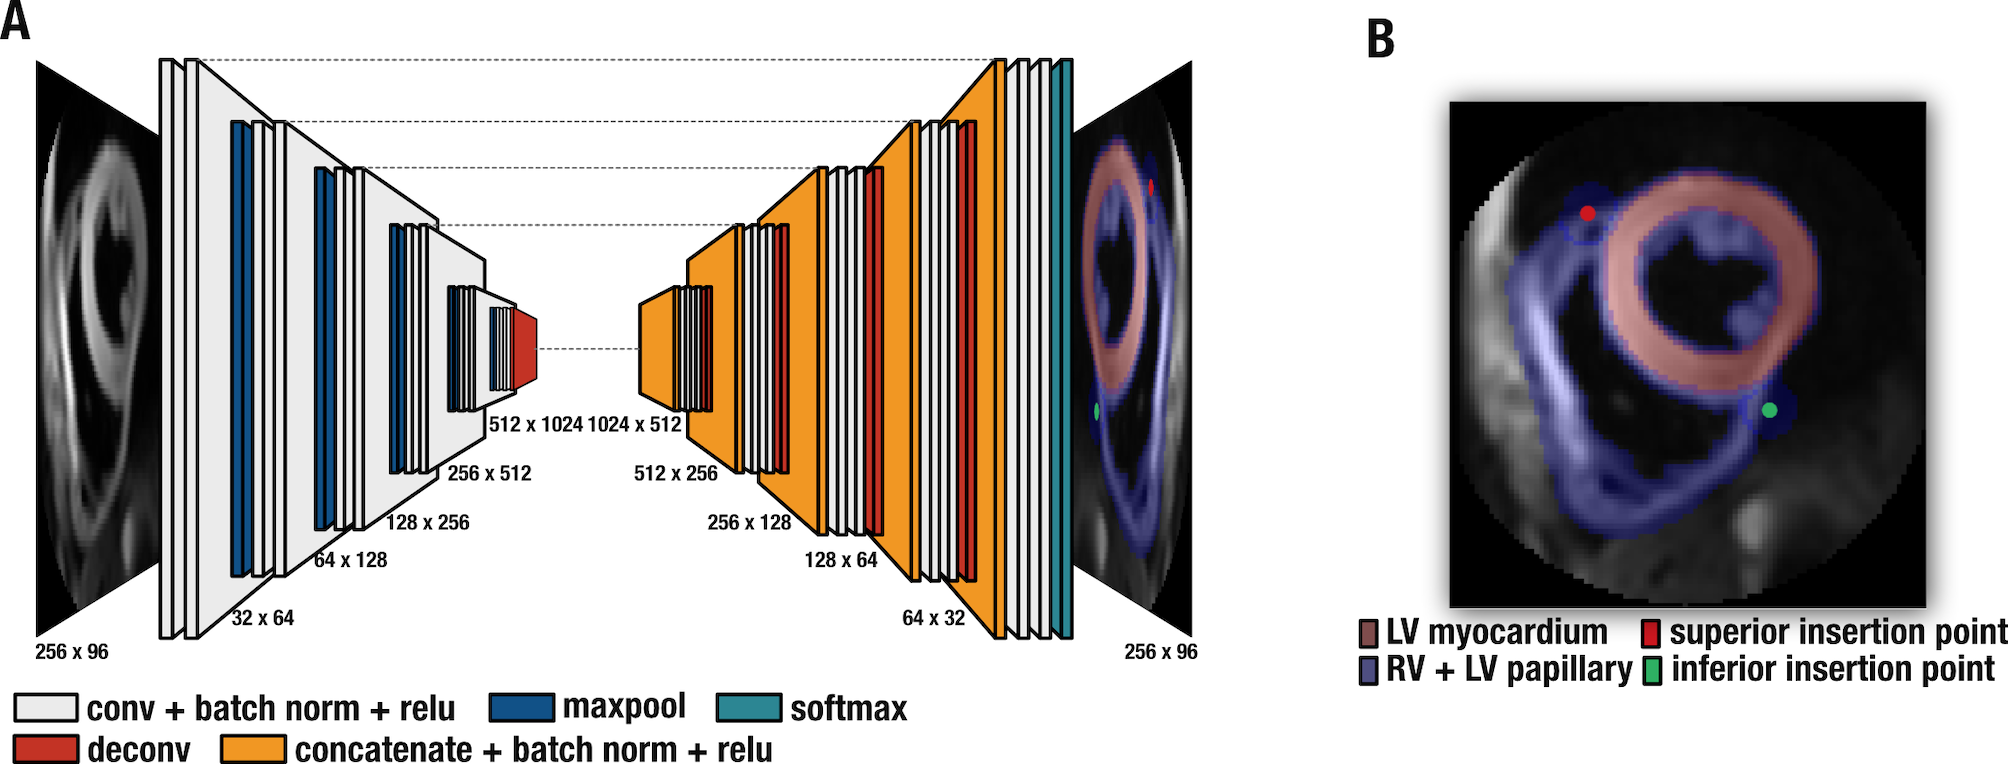
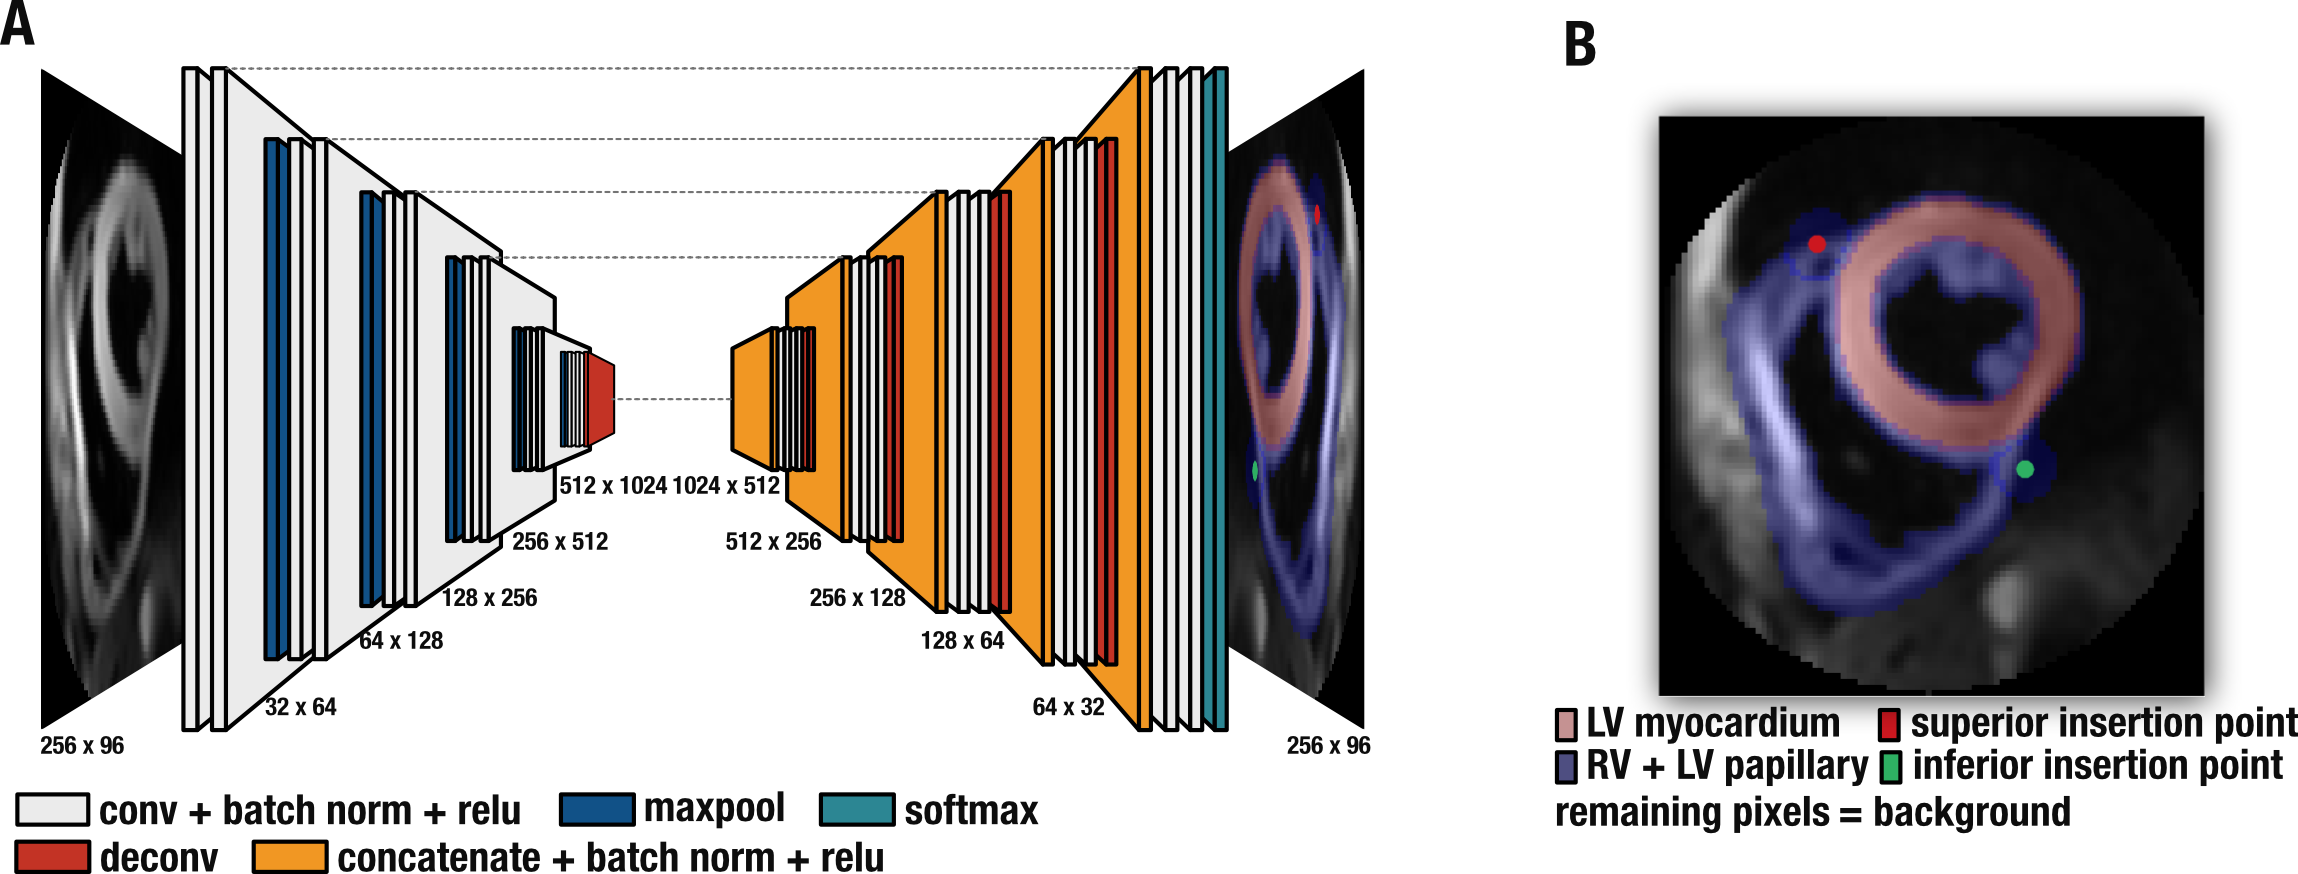
Small changes to readme and to figure 1

diff --git a/README.md b/README.md
@@ -2,7 +2,7 @@
 
 ## Introduction
 
-This repository contains a python file that automatically segments cardiac mid-ventricular short-axis diffusion tensor images. It loads a pre-trained U-Net [1] based convolutional neural network (CNN). This CNN was trained by the cardiac diffusion team at the Royal Brompton Hospital.
+This repository contains a python script that automatically segments cardiac mid-ventricular short-axis diffusion tensor images. It loads a pre-trained U-Net[1] based convolutional neural network (CNN). This CNN was trained by the cardiac diffusion team at the Royal Brompton Hospital.
 
 <p align="left">
 <img src="https://github.com/Pedro-Filipe/DT_CMR_short_axis_conv_net/blob/master/figure_01.png" width="600px"/>
@@ -13,7 +13,7 @@ This repository contains a python file that automatically segments cardiac mid-v
 ## Usage
 This CNN is intended to be used with the scan mean image (average of all acquired diffusion images after co-registration). It also seems to work well for individual diffusion images if they are strongly denoised with a non-local means algorithm [2].
 
-The network was trained with STEAM images acquired at 3T. The input image shape must be a rectangular field of view with (256, 96) pixels. For more information please see the following article:
+The network was trained with mid-ventricular STEAM images acquired at 3T. The input image shape must be a rectangular field of view with (256, 96) pixels (grayscale). For more information please see the following article:
 
 *(coming soon)*
 
@@ -29,7 +29,7 @@ The output from the segment.py file is:
 
 *Figure 2: Input and output of the segment.py script. Each colour represents a different class as shown in figure 1.*
 
-We are confident the U-Net will work with data from other centers provided a similar protocol is used: resolution, field strength and a STEAM based sequence. Although untested, we do not expect good results from a spin-echo based sequence as the image contrast will be quite different, in particular the blood signal in the LV and RV cavity. This is likely to “confuse” the network.
+We are confident the U-Net will work with data from other centers provided a similar protocol is used: resolution, field strength and a STEAM based sequence. Although untested, we do not expect good results from a spin-echo based sequence as the image contrast will be quite different, in particular the blood signal in the LV and RV cavity.
 
 ## Requirements
 
